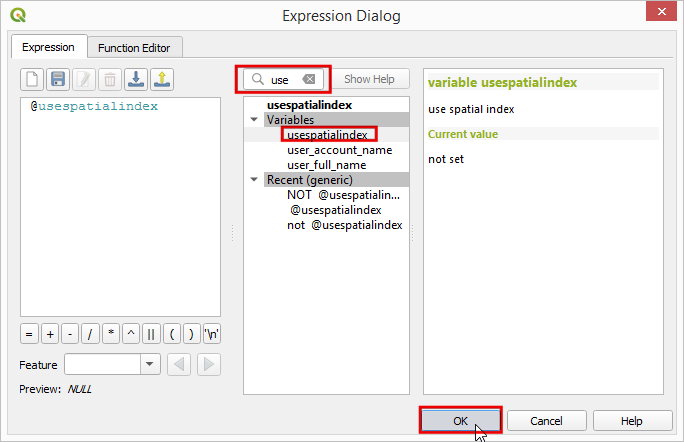
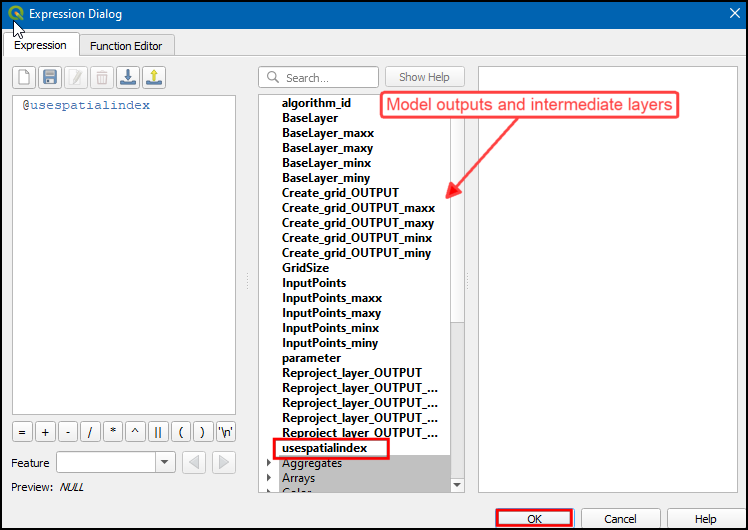
updated layout

Changed region(s): [[0.0, 0.0, 1.0, 1.0], [0.1842, 0.8824, 0.2149, 0.9118]]

diff --git a/docs/pyqgis-in-a-day.html b/docs/pyqgis-in-a-day.html
@@ -393,17 +393,17 @@ $(document).ready(function () {
 <div id="TOC">
 <ul>
 <li><a href="#introduction">Introduction</a></li>
+<li><a href="#software">Software</a>
+<ul>
+<li><a href="#install-qgis-on-windows">Install QGIS on Windows</a></li>
+<li><a href="#install-qgis-on-mac">Install QGIS on Mac</a></li>
+</ul></li>
 <li><a href="#get-the-data-package">Get the Data Package</a></li>
 <li><a href="#where-can-you-use-python-in-qgis">Where can you use Python in QGIS?</a></li>
-<li><a href="#qt-pyqt-and-pyqgis">Qt, PyQt and PyQGIS</a>
-<ul>
-<li><a href="#qt">Qt</a></li>
-<li><a href="#pyqt">PyQt</a></li>
-<li><a href="#pyqgis">PyQGIS</a></li>
-</ul></li>
 <li><a href="#hello-world">Hello World!</a></li>
 <li><a href="#understanding-classes">Understanding Classes</a>
 <ul>
+<li><a href="#qt-pyqt-and-pyqgis">Qt, PyQt and PyQGIS</a></li>
 <li><a href="#classes-vs-objects">Classes vs Objects</a></li>
 <li><a href="#inspecting-objects">Inspecting Objects</a></li>
 <li><a href="#methods-or-functions">Methods (or functions)</a></li>
@@ -415,8 +415,8 @@ $(document).ready(function () {
 <li><a href="#getting-familiar-with-pyqgis">Getting familiar with PyQGIS</a>
 <ul>
 <li><a href="#calculating-distance-using-pyqgis">Calculating distance using PyQGIS</a></li>
-<li><a href="#exercise">Exercise</a></li>
-<li><a href="#exercise-1">Exercise</a></li>
+<li><a href="#exercise-1.1">Exercise 1.1</a></li>
+<li><a href="#exercise-1.2">Exercise 1.2</a></li>
 </ul></li>
 <li><a href="#visual-tour-of-the-pyqgis-api">Visual Tour of the PyQGIS API</a>
 <ul>
@@ -433,7 +433,7 @@ $(document).ready(function () {
 </ul></li>
 <li><a href="#running-python-code-at-qgis-launch">Running Python Code at QGIS Launch</a>
 <ul>
-<li><a href="#exercise-2">Exercise</a></li>
+<li><a href="#exercise">Exercise</a></li>
 </ul></li>
 <li><a href="#creating-custom-python-actions">Creating Custom Python Actions</a></li>
 <li><a href="#writing-python-console-scripts">Writing Python Console Scripts</a></li>
@@ -457,7 +457,7 @@ $(document).ready(function () {
 <li><a href="#writing-python-expression-functions">Writing Python Expression Functions</a>
 <ul>
 <li><a href="#custom-function-to-find-utm-zone-of-a-feature">Custom function to find UTM Zone of a feature</a></li>
-<li><a href="#exercise-4">Exercise</a></li>
+<li><a href="#exercise-2">Exercise</a></li>
 </ul></li>
 <li><a href="#resources-for-further-learning">Resources for Further Learning</a></li>
 <li><a href="#data-credits">Data Credits</a></li>
@@ -474,6 +474,65 @@ $(document).ready(function () {
 <h1>Introduction</h1>
 <p>This class introduces the concepts of Python programming within the QGIS environment. We will cover the full breadth of topics that involve everything from using the Python Console to building a fully functional plugin. We will also explore GUI programming techniques for customizing the QGIS interface using Qt widgets.</p>
 <p>This course requires basic knowledge of Python. If you are not familiar with Python, it is strongly recommended you complete our <a href="https://spatialthoughts.com/training/python-foundation-for-spatial-analysis/">Python Foundation for Spatial Analysis</a> course. We will build upon the exercises covered in that course.</p>
+<p><a href="https://docs.google.com/presentation/d/1GT0c6jG3WmOZgsLuiIniEE9T1H8NJ5G6oemWX43VIUA/edit?usp=sharing" target="_blank"><img src="images/pyqgis/introduction.png" width="400" alt="View Presentation" /></a></p>
+<p><a href="https://docs.google.com/presentation/d/1GT0c6jG3WmOZgsLuiIniEE9T1H8NJ5G6oemWX43VIUA/edit?usp=sharing" target="_blank">View the Presentation</a></p>
+</div>
+<div id="software" class="section level1">
+<h1>Software</h1>
+<p>This course requires QGIS LTR version 3.16. You can download QGIS for your platform from <a href="https://qgis.org/">QGIS.org</a></p>
+<div id="install-qgis-on-windows" class="section level2">
+<h2>Install QGIS on Windows</h2>
+<ol style="list-style-type: decimal">
+<li>Visit the <a href="https://qgis.org/en/site/forusers/download.html">QGIS.org Download</a> page. Click the <strong>OSGeo4W Network Installer (64-bit)</strong> link to download the installer.</li>
+</ol>
+<blockquote>
+<p>The OSGeo4W Network Installer is the preferred way to install QGIS because it ensures you get all the required dependencies for the software.</p>
+</blockquote>
+<p><img src="images/common/winInstall1.png" width="75%" style="display: block; margin: auto;" /></p>
+<ol start="2" style="list-style-type: decimal">
+<li>Once downloaded, double-click the <code>osgeo4w-setup-x86_64.exe</code> to launch the installer. In the <strong>OSGeo4W Setup</strong> window, choose <strong>Advanced Install</strong> and click <em>Next</em>.</li>
+</ol>
+<p><img src="images/common/winInstall2.png" width="75%" style="display: block; margin: auto;" /> 3. Leave all the settings to default and click <em>Next</em> until the <em>Select Packages</em> dialog box. Search <strong>qgis-ltr</strong> and expand the <em>Desktop</em> option, click on the first option to select <strong>3.16.x</strong>.</p>
+<blockquote>
+<p>The minor version shown may be different for you. You can select any version that starts with 3.16.</p>
+</blockquote>
+<p><img src="images/common/winInstall3.png" width="75%" style="display: block; margin: auto;" /></p>
+<ol start="4" style="list-style-type: decimal">
+<li>Click <em>Next</em> on all following windows with default settings. If everything is successful, QGIS will start downloading. Depending on your internet bandwidth, the installation can take up to 30-minutes.</li>
+</ol>
+<p><img src="images/common/winInstall4.png" width="75%" style="display: block; margin: auto;" /></p>
+<ol start="5" style="list-style-type: decimal">
+<li>Once the download gets completed, search for <strong>QGIS</strong> in the Windows Start Menu and choose the <em>QGIS Desktop 3.16</em>, click <em>Open</em>.</li>
+</ol>
+<p><img src="images/common/winInstall5.png" width="75%" style="display: block; margin: auto;" /></p>
+</div>
+<div id="install-qgis-on-mac" class="section level2">
+<h2>Install QGIS on Mac</h2>
+<ol style="list-style-type: decimal">
+<li>Visit the <a href="https://qgis.org/en/site/forusers/download.html">QGIS.org Download</a> page. Click the <strong>QGIS macOS Installer Version 3.16</strong> under the <em>Official All-in-one, signed installers</em> section.</li>
+</ol>
+<p><img src="images/common/mac1.png" width="75%" style="display: block; margin: auto;" /></p>
+<ol start="2" style="list-style-type: decimal">
+<li>Once downloaded, double-click the <code>qgis-macos-pr.dmg</code> file to open the package. Drag the <strong>QGIS-LTR</strong> icon to the <em>Applications</em> folder.</li>
+</ol>
+<p><img src="images/common/mac2.png" width="75%" style="display: block; margin: auto;" /></p>
+<ol start="3" style="list-style-type: decimal">
+<li>It will copy QGIS to the <em>Application</em> folder. This process can take up to 15 minutes.</li>
+</ol>
+<p><img src="images/common/mac3.png" width="60%" style="display: block; margin: auto;" /></p>
+<ol start="4" style="list-style-type: decimal">
+<li>Once finished, Go to the <em>Applications</em> folder. Find the <strong>QGIS-LTR</strong> application and double-click to launch it.</li>
+</ol>
+<p><img src="images/common/mac4.png" width="75%" style="display: block; margin: auto;" /></p>
+<ol start="5" style="list-style-type: decimal">
+<li>The first time you launch the program, you will get a warning that <em>“QGIS-LTR” can’t be opened because Apple cannot check for malicious software</em>. Click <em>OK</em>.</li>
+</ol>
+<p><img src="images/common/mac5.png" width="50%" style="display: block; margin: auto;" /></p>
+<ol start="6" style="list-style-type: decimal">
+<li>Go to <em>Preferences → Security &amp; Privacy → General</em>. Click the <em>Lock</em> icon and enter your password. Click the <em>Open Anyway</em> button to launch QGIS. This step needs to be done only once. The next time, you can launch QGIS-LTR directly from the Applications folder.</li>
+</ol>
+<p><img src="images/common/mac6.png" width="75%" style="display: block; margin: auto;" /></p>
+</div>
 </div>
 <div id="get-the-data-package" class="section level1">
 <h1>Get the Data Package</h1>
@@ -492,28 +551,6 @@ $(document).ready(function () {
 <li>Create custom standalone applications</li>
 </ul>
 </div>
-<div id="qt-pyqt-and-pyqgis" class="section level1">
-<h1>Qt, PyQt and PyQGIS</h1>
-<div id="qt" class="section level2">
-<h2>Qt</h2>
-<p><a href="https://www.qt.io/">Qt</a> is a free and open-source widget toolkit for creating graphical user interfaces as well as cross-platform applications.</p>
-<p>QGIS is built using the Qt platform. Both QT and QGIS itself have well-documented APIs that should be used when writing Python code to be run within QGIS.</p>
-</div>
-<div id="pyqt" class="section level2">
-<h2>PyQt</h2>
-<p><a href="https://wiki.python.org/moin/PyQt">PyQt</a> is the Python interface to Qt. PyQt provides classes and functions to interact with Qt widgets.</p>
-</div>
-<div id="pyqgis" class="section level2">
-<h2>PyQGIS</h2>
-<p>QGIS provides a Python API (Application Programming Interface), commonly known as PyQGIS. <a href="https://docs.qgis.org/testing/en/docs/pyqgis_developer_cookbook/">PyQGIS</a> is created using SIP and integrates with PyQt.</p>
-<blockquote>
-<p><strong><em>Fun Fact:</em></strong> Most QGIS class names start with the prefix <em>Qgs</em>. <strong>Q</strong> is for QT and <strong>gs</strong> stands for Gary Sherman - the founder of the QGIS project.</p>
-</blockquote>
-<p>C++ API documentation is available at <a href="https://qgis.org/api/" class="uri">https://qgis.org/api/</a></p>
-<p>Python API documentation is available at <a href="https://qgis.org/pyqgis/3.0" class="uri">https://qgis.org/pyqgis/3.0</a></p>
-<p>Both C++ and Python APIs are identical for most part, but certain functions are not available in the Python API. <a href="#fn1" class="footnote-ref" id="fnref1"><sup>1</sup></a></p>
-</div>
-</div>
 <div id="hello-world" class="section level1">
 <h1>Hello World!</h1>
 <p>QGIS Comes with a built-in <strong>Python Console</strong> and a code editor where you can write and run Python code.</p>
@@ -530,6 +567,30 @@ $(document).ready(function () {
 <div id="understanding-classes" class="section level1">
 <h1>Understanding Classes</h1>
 <p>Before we dive it to PyQGIS, it is important to understand certain concepts related to C++ and Python Classes. Qt as well as QGIS is written in C++ language. Functionality of each Qt/QGIS Widget is implemented as a class - having certain properties and functions. When we use PyQt or PyQGIS classes, it is executing the code in the C++ classes via the python bindings.</p>
+<p><a href="https://docs.google.com/presentation/d/1b4i1nEDR_uKJVu0IIqjoqrxeFD2a-tnj88JRXQW0JiA/edit?usp=sharing" target="_blank"><img src="images/pyqgis/classes.png" width="400" alt="View Presentation" /></a></p>
+<p><a href="https://docs.google.com/presentation/d/1b4i1nEDR_uKJVu0IIqjoqrxeFD2a-tnj88JRXQW0JiA/edit?usp=sharing" target="_blank">View the Presentation</a></p>
+<div id="qt-pyqt-and-pyqgis" class="section level2">
+<h2>Qt, PyQt and PyQGIS</h2>
+<div id="qt" class="section level3">
+<h3>Qt</h3>
+<p><a href="https://www.qt.io/">Qt</a> is a free and open-source widget toolkit for creating graphical user interfaces as well as cross-platform applications.</p>
+<p>QGIS is built using the Qt platform. Both QT and QGIS itself have well-documented APIs that should be used when writing Python code to be run within QGIS.</p>
+</div>
+<div id="pyqt" class="section level3">
+<h3>PyQt</h3>
+<p><a href="https://wiki.python.org/moin/PyQt">PyQt</a> is the Python interface to Qt. PyQt provides classes and functions to interact with Qt widgets.</p>
+</div>
+<div id="pyqgis" class="section level3">
+<h3>PyQGIS</h3>
+<p>QGIS provides a Python API (Application Programming Interface), commonly known as PyQGIS. <a href="https://docs.qgis.org/testing/en/docs/pyqgis_developer_cookbook/">PyQGIS</a> is created using SIP and integrates with PyQt.</p>
+<blockquote>
+<p><strong><em>Fun Fact:</em></strong> Most QGIS class names start with the prefix <em>Qgs</em>. <strong>Q</strong> is for QT and <strong>gs</strong> stands for Gary Sherman - the founder of the QGIS project.</p>
+</blockquote>
+<p>C++ API documentation is available at <a href="https://qgis.org/api/" class="uri">https://qgis.org/api/</a></p>
+<p>Python API documentation is available at <a href="https://qgis.org/pyqgis/3.0" class="uri">https://qgis.org/pyqgis/3.0</a></p>
+<p>Both C++ and Python APIs are identical for most part, but certain functions are not available in the Python API. <a href="#fn1" class="footnote-ref" id="fnref1"><sup>1</sup></a></p>
+</div>
+</div>
 <div id="classes-vs-objects" class="section level2">
 <h2>Classes vs Objects</h2>
 <p>A class can be thought of as a template. You cannot use it directly. To use it in a program, you must create an ‘instance’ of it - which uses the template along with the supplied parameters to create an instance of the class. This is known as an object.</p>
@@ -627,15 +688,15 @@ $(document).ready(function () {
 <span id="cb13-16"><a href="#cb13-16" aria-hidden="true" tabindex="-1"></a>distance <span class="op">=</span> d.measureLine([point1, point2])</span>
 <span id="cb13-17"><a href="#cb13-17" aria-hidden="true" tabindex="-1"></a><span class="bu">print</span>(distance<span class="op">/</span><span class="dv">1000</span>)</span></code></pre></div>
 </div>
-<div id="exercise" class="section level2">
-<h2>Exercise</h2>
+<div id="exercise-1.1" class="section level2">
+<h2>Exercise 1.1</h2>
 <p>Let’s say you want to make a stop at Las Vegas on the way from San Francisco to New York. Calculate the total ellipsoidal distance considering a stop at Las Vegas.</p>
 <div class="sourceCode" id="cb14"><pre class="sourceCode python"><code class="sourceCode python"><span id="cb14-1"><a href="#cb14-1" aria-hidden="true" tabindex="-1"></a>san_francisco <span class="op">=</span> (<span class="fl">37.7749</span>, <span class="op">-</span><span class="fl">122.4194</span>)</span>
 <span id="cb14-2"><a href="#cb14-2" aria-hidden="true" tabindex="-1"></a>new_york <span class="op">=</span> (<span class="fl">40.661</span>, <span class="op">-</span><span class="fl">73.944</span>)</span>
 <span id="cb14-3"><a href="#cb14-3" aria-hidden="true" tabindex="-1"></a>las_vegas <span class="op">=</span> (<span class="fl">36.1699</span>, <span class="op">-</span><span class="fl">115.1398</span>)</span></code></pre></div>
 </div>
-<div id="exercise-1" class="section level2">
-<h2>Exercise</h2>
+<div id="exercise-1.2" class="section level2">
+<h2>Exercise 1.2</h2>
 <p>Use the <code>QgsDistanceArea</code> class to convert the distance from meters to miles.</p>
 <p>Hint: The class has a method <code>convertLengthMeasurement()</code> that can help. The challenge is to figure out how to specify the distance units parameter in the method.</p>
 </div>
@@ -1097,7 +1158,7 @@ $(document).ready(function () {
 <p><img src="images/pyqgis/startup.png" width="75%" style="display: block; margin: auto;" /></p>
 <p>Once you copy the file at that location, restart QGIS. The title bar should now have the QGIS version name in it.</p>
 <p><img src="images/pyqgis/customtitle.png" width="75%" style="display: block; margin: auto;" /></p>
-<div id="exercise-2" class="section level2">
+<div id="exercise" class="section level2">
 <h2>Exercise</h2>
 <p>Trying opening a new project in QGIS after you have restarted GIS with <code>startup.py</code> file in place. You will notice that the custom title with the version name is replaced with the default title.</p>
 <p>Make a change to your <code>startup.py</code> so that the customization is applied even when a new project is loaded.</p>
@@ -1469,7 +1530,7 @@ $(document).ready(function () {
 <p><img src="images/pyqgis/pluginminimalfiles.png" width="75%" style="display: block; margin: auto;" /></p>
 <p>Restart QGIS. Go to <strong>Plugins → Manage and Install plugins… → Installed</strong> and enable the <strong>Save Attributes</strong> plugin. You will see the menu entry and the toolbar icon from the plugin.</p>
 <p><img src="images/pyqgis/pluginminimalshow.png" width="75%" style="display: block; margin: auto;" /></p>
-<div id="exercise-3" class="section level3">
+<div id="exercise-1" class="section level3">
 <h3>Exercise</h3>
 <p>Take the minimal plugin template from above and build a new plugin called ‘Show Time’. This plugin will add a button to the Plugin Toolbar which will display the current time when clicked. The code to add such a button is already covered in the <strong>Add a button to a toolbar</strong> section.</p>
 </div>
@@ -1728,7 +1789,7 @@ $(document).ready(function () {
 <p>You will see the attribute table updates with the corresponding utm zone for each feature.</p>
 <p><img src="images/pyqgis/expressiontable.png" width="75%" style="display: block; margin: auto;" /></p>
 </div>
-<div id="exercise-4" class="section level2">
+<div id="exercise-2" class="section level2">
 <h2>Exercise</h2>
 <p>Write a new custom function called <code>unique_values()</code> that takes the a comma-separated string value and removes duplicate values.</p>
 <p>For example,</p>

diff --git a/docs/advanced-qgis.html b/docs/advanced-qgis.html
@@ -845,7 +845,7 @@ $(document).ready(function () {
 <ol start="5" style="list-style-type: decimal">
 <li>Click the Add button and select the Expression Dialog button.</li>
 </ol>
-<p><img src="images/advanced_qgis/conditionalBranch05.png" width="75%" style="display: block; margin: auto;" /> 6. Search <strong>usespatialindex</strong> and double click on it. Click OK.</p>
+<p><img src="images/advanced_qgis/conditionalBranch05.png" width="75%" style="display: block; margin: auto;" /> 6. All the model output and intermediate layers will be displayed in Bold characters, double click in <strong>usespatialindex</strong>. Click <em>OK</em>.</p>
 <p><img src="images/advanced_qgis/conditionalBranch06.png" width="75%" style="display: block; margin: auto;" /></p>
 <ol start="7" style="list-style-type: decimal">
 <li>Now, in <em>Branch Name</em> type <strong>Use Spatial Index.</strong> Then click Add button and select the Expression Dialog button. Now in the <em>Expression</em> tab type <strong>NOT <span class="citation">@usespatialindex</span></strong> Click OK. Now in the <em>Conditional branch</em> dialog box, under <em>Branch Name</em> type <strong>Don’t Use spatial index.</strong> click OK.</li>
